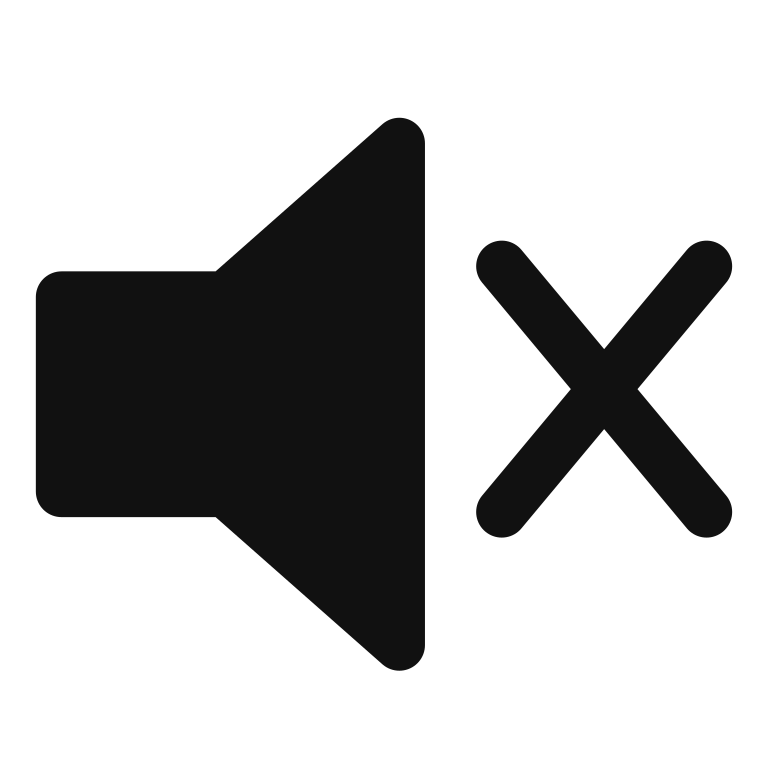
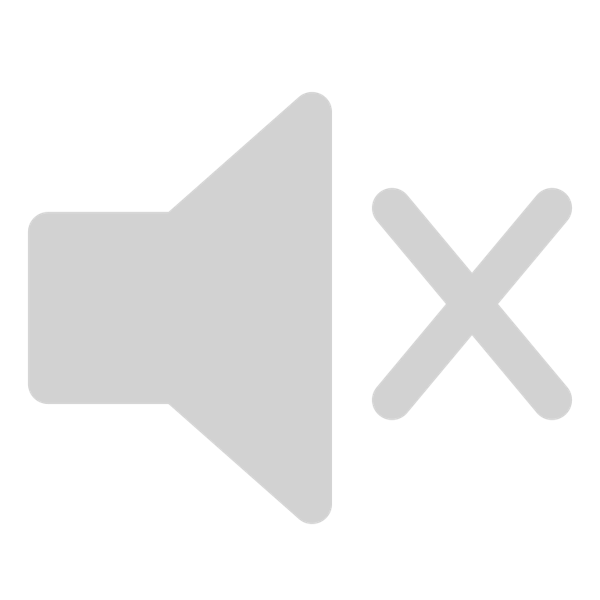
added home link & adjusted images

Changed region(s): [[0.03, 0.15, 0.57, 0.9], [0.6, 0.3, 0.96, 0.72]]

diff --git a/stylesheets/dc_style.css b/stylesheets/dc_style.css
@@ -18,17 +18,26 @@ body{
     background-repeat: no-repeat;
 }
 
+
 audio{display: none;}
-#bgm-btn{
+.icon-btn{
     height: 5vh;
     width: 5vh;
     position: fixed;
     top: 5vw;
-    right: 5vw;
-    background-color: #FFF;
-    background-image: url("../Images/play.png");
-    background-size: 50%;
+    background-color: transparent;
+    border: 1px solid #CDCDCD;
     background-repeat: no-repeat;
     background-position: center;
     border-radius: 50%;
+}
+#home{
+    left: 5vw;
+    background-image: url("../Images/home.png");
+    background-size: 80%;
+}
+#bgm-btn{
+    right: 5vw;
+    background-image: url("../Images/play.png");
+    background-size: 60%;
 }

diff --git a/dc_game.html b/dc_game.html
@@ -9,10 +9,11 @@
     <link rel="shorcut icon" href="Images/logo.png">
 </head>
 <body>
+    <a href="index.html" class="icon-btn" id="home"></a>
     <audio controls autoplay loop id="bgm">
         <source src="Audio/Justice League.mp3">
     </audio>
-    <button id="bgm-btn" onclick="bgmToggle()"></button>
+    <button class="icon-btn" id="bgm-btn" onclick="bgmToggle()"></button>
 </body>
 <script src="scripts/dc_script.js"></script>
 </html>
